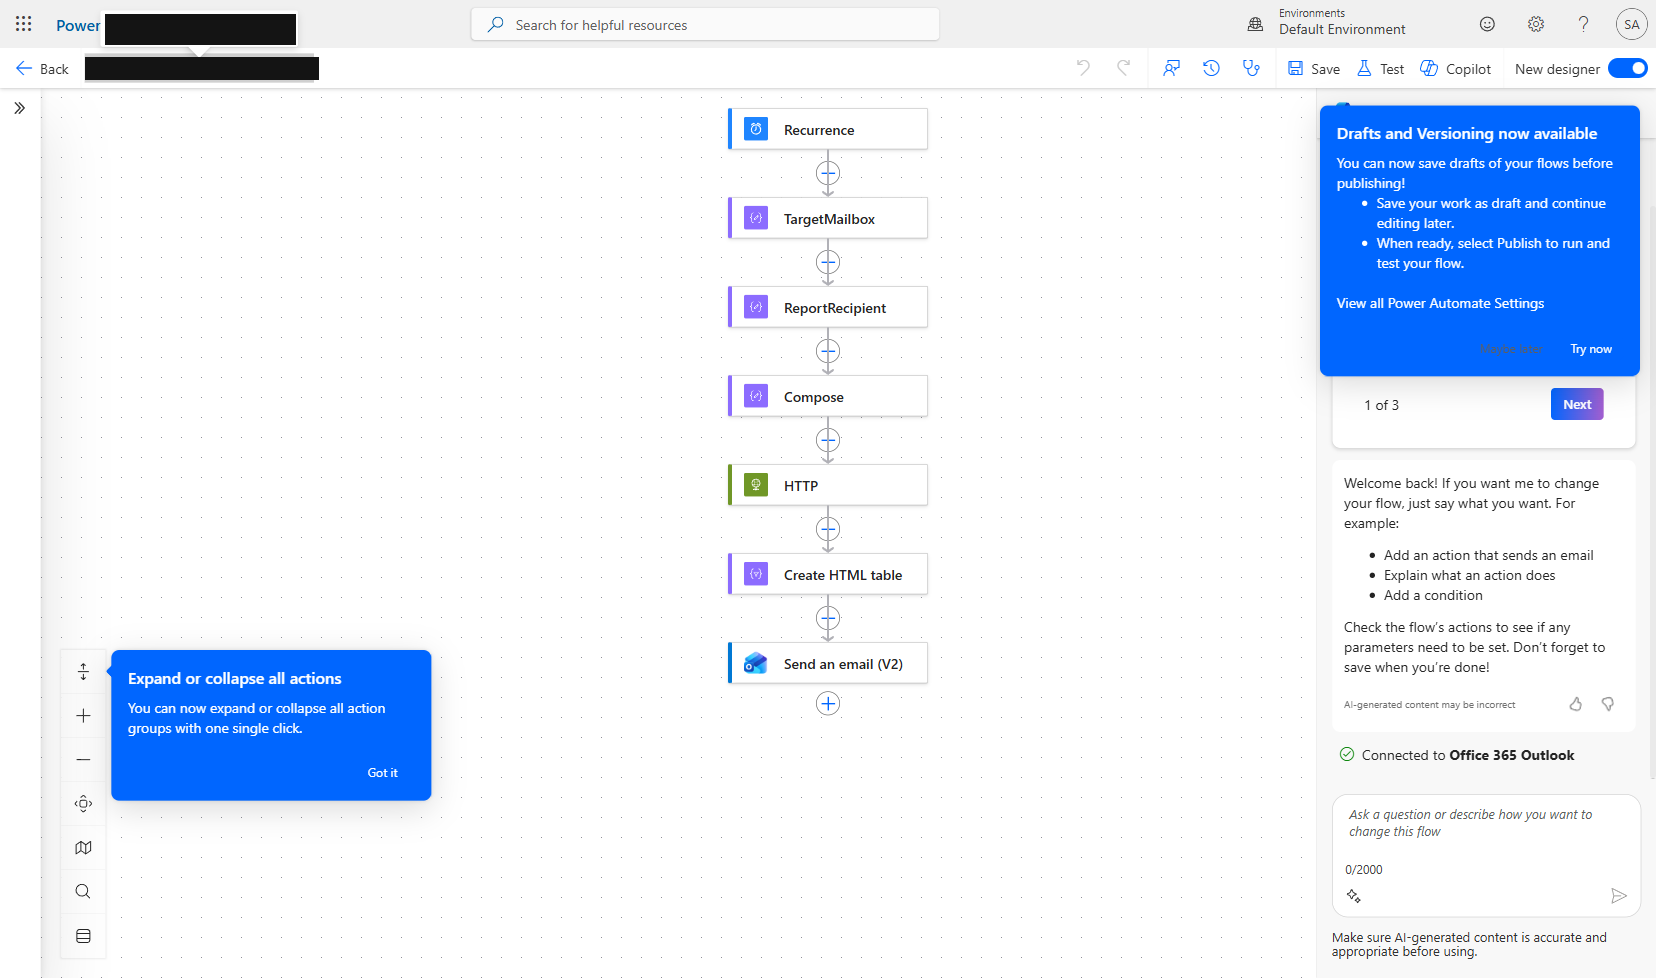
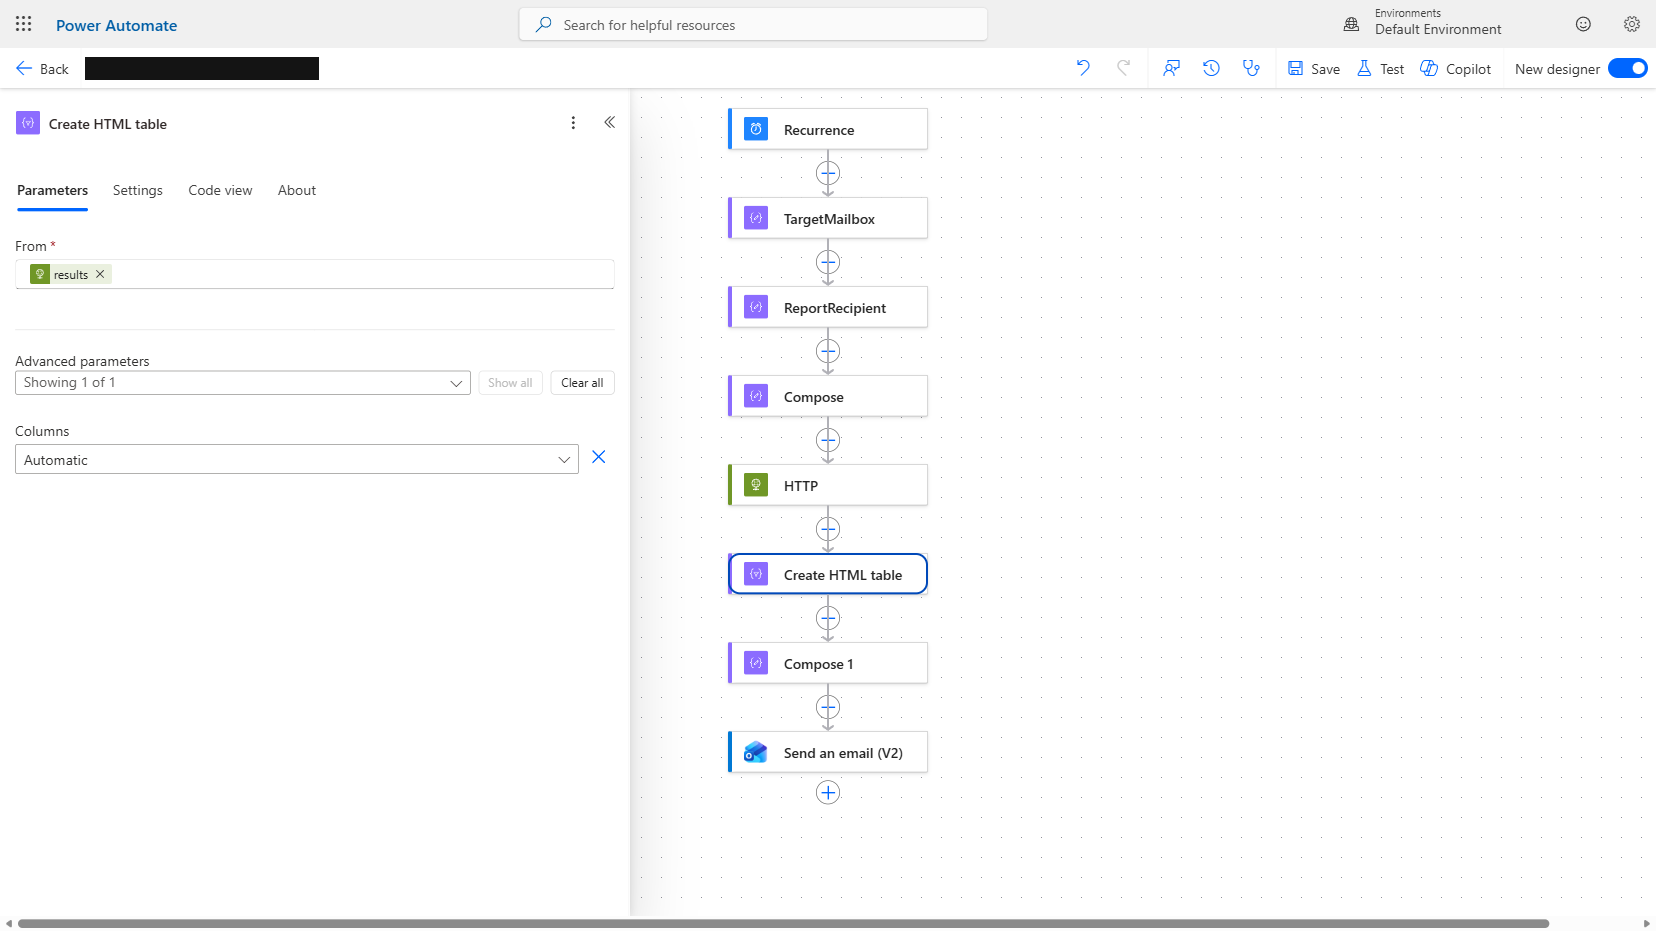
Fix mismatched screenshot and add Step 5 proof
- v2-01-flow-before.png was a canvas overview that didn't match its
  caption (Columns: Automatic). Replaced with an accurate screenshot
  of the Create HTML table Parameters panel showing Automatic mode,
  and tightened the caption to match.
- Added v2-08-save-and-test.png: a successful test run with
  Create HTML table, Compose 1, and Send an email all green, for
  Step 5 (previously text-only).
- Files table count updated (seven -> eight screenshots).

diff --git a/README.md b/README.md
@@ -332,7 +332,7 @@ Applies to both the [Power Automate digest](#power-automate-digest) and the [Log
 
 Open **Create HTML table**. Under **Advanced parameters**, select **Show all**, then set **Columns** to **Custom**.
 
-<p align="center"><img src="docs/images/v2-01-flow-before.png" alt="Create HTML table before the change, in Automatic mode" width="800"></p>
+<p align="center"><img src="docs/images/v2-01-flow-before.png" alt="Create HTML table's Parameters panel with Columns set to Automatic, before the change" width="800"></p>
 
 > [!NOTE]
 > Switching to **Custom** clears the automatic columns. You re-add them yourself in the next step, so the digest keeps the same look.
@@ -388,6 +388,8 @@ Open **Send an email (V2)**. Delete the existing dynamic content in **Body**, th
 ### Step 5. Save and test
 
 Select **Save**, then **Test** it the same way as [step 17](#step-17-turn-on-run-and-check-the-history). If there's a matching ZAP or manual remediation action in the last 24 hours, the digest arrives with a working **Request Release** link in the last column.
+
+<p align="center"><img src="docs/images/v2-08-save-and-test.png" alt="Successful test run, with Create HTML table, Compose 1, and Send an email all green" width="800"></p>
 
 **Logic App**
 
@@ -553,7 +555,7 @@ The two graphics below are mock-ups with synthetic data and fictional addresses.
 | File | What it is |
 |---|---|
 | `README.md` | This page: the three step-by-step guides, the Request Release button, the comparison, and the test results |
-| `docs/images/` | Two synthetic sample graphics, plus seven redacted screenshots of the Request Release button walkthrough |
+| `docs/images/` | Two synthetic sample graphics, plus eight redacted screenshots of the Request Release button walkthrough |
 | `logic-app/zap-daily-report-la.json` | ARM template for the Logic App, including the Request Release button. It has no secrets. |
 | `queries/zap-daily-report.kql` | The daily digest query, used by both digests |
 | `queries/custom-detection.kql` | The custom detection query. It has no comments, because NRT rules don't allow them. |
